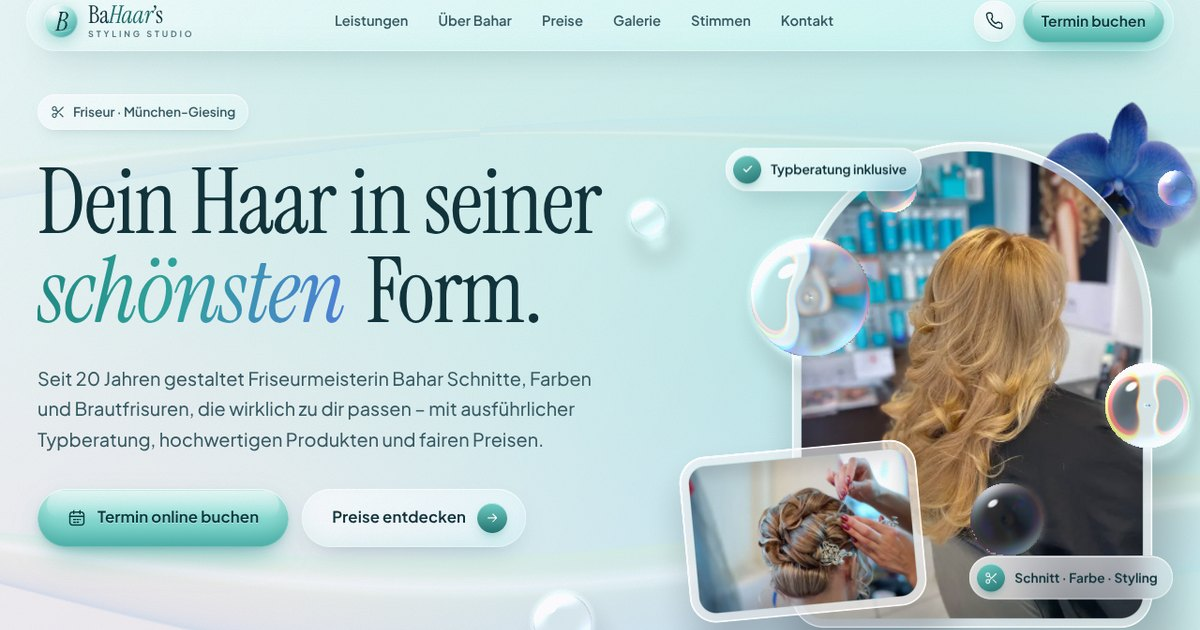
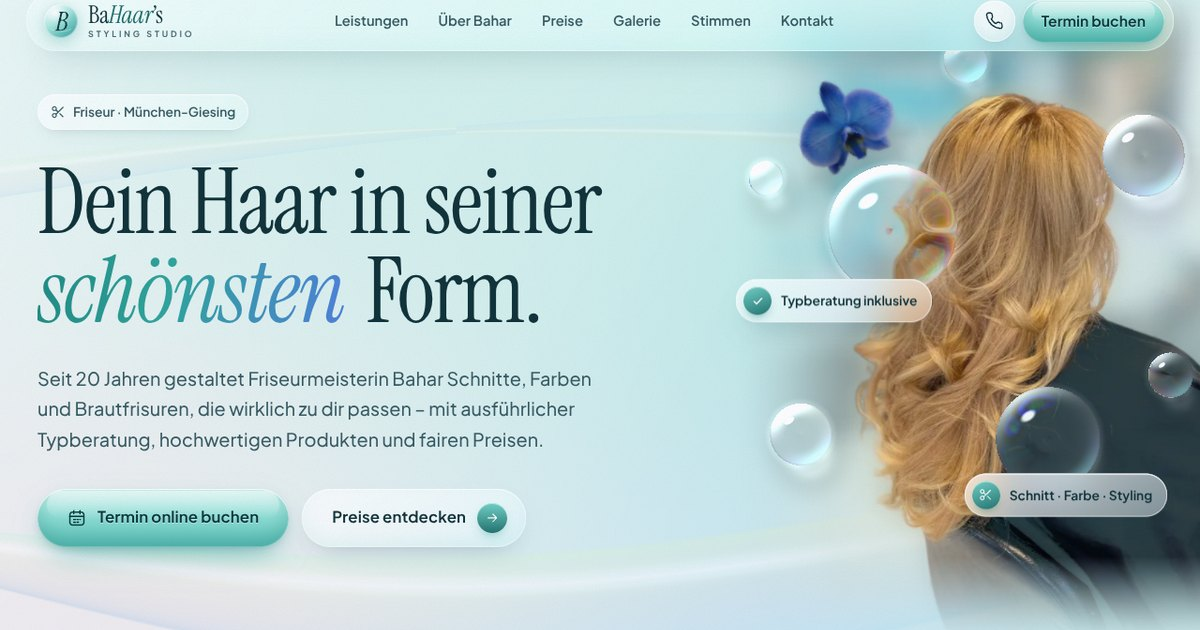
Hero ohne Spiegel-Rahmen: Haar-Ergebnis löst sich frei in den Glasraum auf
- Bogen-Rahmen und Fotokarte aus dem Hero entfernt
- Neues Hero-Motiv: Blond-Waves aus dem Studio, Person scharf freigestellt,
  Salon dahinter weich und türkis getönt, Ränder lösen sich transparent auf;
  Umhang dezent in Petrol getönt
- WebGL-Hero: Schattenstärke, Schwingen und Tiefe pro Ebene steuerbar,
  Glastropfen am Haar ausgerichtet; CSS-Fallback identisch komponiert
- Social-Vorschaubild aktualisiert

Claude-Session: https://claude.ai/code/session_01Y97sLgcXJidQsChtPZAs3B

Changed region(s): [[0.555, 0.0302, 1.0, 1.0], [0.5242, 0.3016, 0.555, 0.3921], [0.4317, 0.9349, 0.4933, 0.9952]]

diff --git a/assets/css/home.css b/assets/css/home.css
@@ -5,12 +5,12 @@
 /* ---------- Hero ---------- */
 .hero {
   /* Bildkomposition (wird vom WebGL-Hero exakt übernommen) */
-  --ah: min(72svh, 690px);
-  --aw: calc(var(--ah) * 0.74);
-  --ar: max(4vw, calc(50% - 610px));
-  --at: calc(50% - var(--ah) / 2 + 30px);
+  --hh: max(100svh, 720px);
+  --ph: var(--hh);
+  --pw: calc(var(--ph) * 0.75);
+  --pr: calc(-1 * clamp(16px, 3vw, 60px));
   position: relative;
-  min-height: max(100svh, 720px);
+  min-height: var(--hh);
   display: grid;
   align-items: center;
   padding: calc(var(--header-h) + 48px) 0 96px;
@@ -45,55 +45,30 @@
   transform: rotate(-8deg);
   opacity: 0.8;
 }
+.hero__portrait {
+  position: absolute;
+  top: 0;
+  right: var(--pr);
+  height: var(--ph);
+  width: var(--pw);
+  max-width: none;
+  object-fit: cover;
+  transform-origin: 50% 0%;
+}
 .hero__bloom {
   position: absolute;
   max-width: none;
-  width: calc(var(--aw) * 0.44);
-  right: calc(var(--ar) - var(--aw) * 0.2);
-  top: calc(var(--at) - var(--aw) * 0.1);
-  rotate: 16deg;
+  width: calc(var(--pw) * 0.2);
+  right: calc(var(--pr) + var(--pw) * 0.7);
+  top: calc(var(--ph) * 0.15);
+  rotate: -18deg;
   transform-origin: 50% 0%;
-  filter: blur(0.4px) drop-shadow(0 24px 30px rgba(20, 80, 90, 0.22));
+  filter: blur(1.2px) drop-shadow(0 24px 30px rgba(20, 80, 90, 0.22));
 }
-.hero__frame {
-  position: absolute;
-  margin: 0;
-  padding: 10px;
-  transform-origin: 50% 0%;
-  background: linear-gradient(150deg, rgba(255, 255, 255, 0.78), rgba(255, 255, 255, 0.45));
-  box-shadow:
-    inset 0 1px 0 #fff,
-    inset 0 0 0 1px rgba(255, 255, 255, 0.7),
-    0 40px 80px -30px rgba(16, 74, 84, 0.45),
-    0 12px 26px -14px rgba(16, 74, 84, 0.25);
-}
-.hero__frame img {
-  width: 100%;
-  height: 100%;
-  object-fit: cover;
-  border-radius: inherit;
-}
-.hero__frame--arch {
-  width: var(--aw);
-  height: var(--ah);
-  right: var(--ar);
-  top: var(--at);
-  border-radius: 50% 50% 34px 34px / 37% 37% 34px 34px;
-}
-.hero__frame--arch img { object-position: 50% 42%; border-radius: 50% 50% 26px 26px / 37% 37% 26px 26px; }
-.hero__frame--card {
-  width: calc(var(--aw) * 0.66);
-  aspect-ratio: 3 / 2.1;
-  right: calc(var(--ar) + var(--aw) * 0.66);
-  top: calc(var(--at) + var(--ah) * 0.63);
-  border-radius: 28px;
-  rotate: -5deg;
-}
-.hero__frame--card img { object-position: 50% 40%; border-radius: 20px; }
 .hero__drop { width: 96px; height: 96px; }
-.hero__drop--1 { right: calc(var(--ar) + var(--aw) * 0.85); top: calc(var(--at) + var(--ah) * 0.22); }
-.hero__drop--2 { right: calc(var(--ar) - 30px); top: calc(var(--at) + var(--ah) * 0.48); width: 64px; height: 64px; }
-.hero__drop--3 { right: calc(var(--ar) + var(--aw) * 0.4); top: calc(var(--at) + var(--ah) * 0.76); width: 44px; height: 44px; }
+.hero__drop--1 { right: calc(var(--pr) + var(--pw) * 0.6); top: calc(var(--ph) * 0.3); }
+.hero__drop--2 { right: calc(var(--pr) + var(--pw) * 0.12); top: calc(var(--ph) * 0.22); width: 64px; height: 64px; }
+.hero__drop--3 { right: calc(var(--pr) + var(--pw) * 0.3); top: calc(var(--ph) * 0.8); width: 44px; height: 44px; }
 
 .hero__tag {
   position: absolute;
@@ -124,12 +99,12 @@
 }
 .hero__tag-icon svg { width: 15px; height: 15px; }
 .hero__tag--a {
-  right: calc(var(--ar) + var(--aw) * 0.64);
-  top: calc(var(--at) + var(--ah) * 0.03);
+  right: calc(var(--pr) + var(--pw) * 0.6);
+  top: calc(var(--ph) * 0.46);
 }
 .hero__tag--b {
-  right: calc(var(--ar) - 22px);
-  top: calc(var(--at) + var(--ah) * 0.86);
+  right: calc(var(--pr) + var(--pw) * 0.08 + 30px);
+  top: calc(var(--ph) * 0.74);
   animation-delay: -3s;
 }
 @keyframes float-tag { to { translate: 0 -10px; } }
@@ -147,7 +122,7 @@
 }
 .hero.is-gl .hero__gl { opacity: 1; }
 .hero.is-gl-done .hero__bloom,
-.hero.is-gl-done .hero__frame,
+.hero.is-gl-done .hero__portrait,
 .hero.is-gl-done .hero__drop,
 .hero.is-gl-done .hero__ribbon { visibility: hidden; }
 
@@ -247,25 +222,19 @@
 
 @media (max-width: 899px) {
   .hero {
-    --ah: clamp(300px, 44svh, 520px);
-    --ar: calc(50% - var(--aw) * 0.64);
-    --at: 84px;
+    --ph: clamp(430px, 64svh, 660px);
+    --pr: calc(50% - var(--pw) * 0.56);
     align-items: end;
     min-height: auto;
-    padding-top: calc(var(--at) + var(--ah) + 40px);
+    padding-top: calc(var(--ph) * 0.93);
     padding-bottom: 64px;
   }
-  .hero__frame--card {
-    width: calc(var(--aw) * 0.72);
-    right: calc(var(--ar) + var(--aw) * 0.56);
-    top: calc(var(--at) + var(--ah) * 0.5);
-  }
-  .hero__bloom { width: calc(var(--aw) * 0.4); right: calc(var(--ar) - var(--aw) * 0.16); top: calc(var(--at) - 34px); }
+  .hero__bloom { width: calc(var(--pw) * 0.22); right: calc(var(--pr) + var(--pw) * 0.72); top: calc(var(--ph) * 0.16); }
   .hero__tag { font-size: 0.78rem; padding: 6px 13px 6px 6px; }
   .hero__tag-icon { width: 26px; height: 26px; }
-  .hero__tag--a { right: auto; left: 4vw; top: calc(var(--at) + var(--ah) * 0.24); }
-  .hero__tag--b { display: none; }
-  .hero__drop--1 { right: auto; left: 3vw; top: calc(var(--at) + var(--ah) * 0.04); width: 60px; height: 60px; }
+  .hero__tag--a { right: auto; left: 4vw; top: calc(var(--ph) * 0.4); }
+  .hero__tag--b { right: 4vw; top: calc(var(--ph) * 0.66); }
+  .hero__drop--1 { right: calc(var(--pr) + var(--pw) * 0.66); top: calc(var(--ph) * 0.26); width: 60px; height: 60px; }
   .hero__drop--3 { display: none; }
   .hero__ribbon { top: 30%; }
   .hero__meta { margin-bottom: 20px; }

diff --git a/assets/js/hero-gl.js b/assets/js/hero-gl.js
@@ -1,7 +1,7 @@
 /* BaHaar's Styling Studio – Liquid-Glass-Hero (WebGL2)
-   Echte Haar-Ergebnisse aus dem Studio in Glasrahmen, eine Orchideenblüte als Akzent,
-   ein türkiser Perlmutt-Raum dahinter. Flüssige Glastropfen brechen das Bild,
-   verschmelzen miteinander und folgen dem Zeiger.
+   Ein echtes Haar-Ergebnis aus dem Studio löst sich ohne Rahmen in einen türkisen
+   Perlmutt-Raum auf, eine Orchideenblüte setzt den Akzent. Flüssige Glastropfen
+   brechen das Bild, verschmelzen miteinander und folgen dem Zeiger.
    Ohne WebGL2 bleibt die identisch komponierte HTML/CSS-Ebene sichtbar. */
 (() => {
   'use strict';
@@ -31,7 +31,7 @@
   uniform vec4 uParam[3];
   uniform vec2 uShift[3];
   uniform vec2 uPad[3];
-  uniform vec4 uShape[3];   // Typ (0 Freisteller, 1 Bogen, 2 Rechteck), Radius oben, Radius unten, Rahmenbreite
+  uniform vec4 uShape[3];   // Typ (0 Freisteller, 1 Bogen, 2 Rechteck); Freisteller: y = Schattenstärke; Rahmen: Radius oben/unten, Rahmenbreite
   uniform vec4 uCover[3];   // Bild-Seitenverhältnis, object-position x/y
   uniform sampler2D uTex0;
   uniform sampler2D uTex1;
@@ -136,7 +136,7 @@
     vec2 uv = spriteUV(i, p);
     vec2 suv = spriteUV(i, p - vec2(14.0, 28.0));
     float sh = texture(tex, suv, min(3.4 + uParam[i].y * 0.5, 4.4)).a * inBox(suv);
-    col *= 1.0 - 0.16 * sh;
+    col *= 1.0 - 0.16 * sh * shp.y;
     vec4 s = texture(tex, uv, uParam[i].y) * inBox(uv);
     return s.rgb + col * (1.0 - s.a);
   }
@@ -248,6 +248,9 @@
     img: el.tagName === 'IMG' ? el : el.querySelector('img'),
     blur: parseFloat(el.dataset.blur) || 0,
     shape: { cutout: 0, arch: 1, rect: 2 }[el.dataset.shape || 'cutout'],
+    shadow: el.dataset.shadow !== undefined ? parseFloat(el.dataset.shadow) : 1,
+    sway: el.dataset.sway !== undefined ? parseFloat(el.dataset.sway) : null,
+    depth: el.dataset.depth !== undefined ? parseFloat(el.dataset.depth) : null,
   }));
   const anchor = sprites.find((s) => 'anchor' in s.el.dataset) || sprites[0];
 
@@ -312,8 +315,9 @@
       const w = el.offsetWidth, h = el.offsetHeight;
       rects.set([el.offsetLeft, el.offsetTop, w, h], i * 4);
       const bias = s.blur > 0 ? Math.log2(1 + s.blur * dpr) : 0;
-      const sway = s.shape === 0 ? 0.05 : 0.004;
+      const sway = s.sway ?? (s.shape === 0 ? 0.05 : 0.004);
       params.set([rot * Math.PI / 180, bias, sway, i * 1.7], i * 4);
+      if (s.shape === 0) shapes.set([0, s.shadow, 0, 0], i * 4);
       if (s.shape > 0) {
         const frame = parseFloat(cs.paddingTop) || 0;
         const rb = parseFloat(cs.borderBottomLeftRadius) || 0;
@@ -327,14 +331,15 @@
   }
 
   /* -------------------- Glastropfen-Choreografie ------------------- */
+  // Positionen relativ zum Anker-Bild (Haar liegt etwa bei x 0.25–0.75, y 0.15–0.85)
   const DROPS = [
-    { fx: 0.02, fy: 0.30, r: 0.17, amp: 14, sp: 0.21, ph: 0.0 },
-    { fx: 0.96, fy: 0.55, r: 0.12, amp: 12, sp: 0.17, ph: 1.3 },
-    { fx: 0.58, fy: 0.80, r: 0.10, amp: 14, sp: 0.13, ph: 2.1 },
-    { fx: 0.30, fy: 0.10, r: 0.07, amp: 10, sp: 0.25, ph: 3.4 },
-    { fx: -0.62, fy: 0.98, r: 0.08, amp: 10, sp: 0.30, ph: 4.2 },
-    { fx: 1.06, fy: 0.08, r: 0.05, amp: 8, sp: 0.33, ph: 5.0 },
-    { fx: -0.42, fy: 0.16, r: 0.05, amp: 8, sp: 0.28, ph: 0.7 },
+    { fx: 0.30, fy: 0.36, r: 0.13, amp: 14, sp: 0.21, ph: 0.0 },
+    { fx: 0.80, fy: 0.27, r: 0.08, amp: 12, sp: 0.17, ph: 1.3 },
+    { fx: 0.62, fy: 0.70, r: 0.10, amp: 14, sp: 0.13, ph: 2.1 },
+    { fx: 0.16, fy: 0.68, r: 0.06, amp: 10, sp: 0.25, ph: 3.4 },
+    { fx: 0.88, fy: 0.58, r: 0.045, amp: 9, sp: 0.30, ph: 4.2 },
+    { fx: 0.46, fy: 0.11, r: 0.045, amp: 9, sp: 0.33, ph: 5.0 },
+    { fx: 0.06, fy: 0.30, r: 0.035, amp: 8, sp: 0.28, ph: 0.7 },
   ];
   const drops = new Float32Array(32);
   const pointer = { x: 0, y: 0, tx: 0, ty: 0, r: 0, tr: 0, vx: 0, vy: 0, inside: false };
@@ -360,7 +365,7 @@
     pointer.ty = e.clientY - r.top;
     if (!pointer.inside && active) { pointer.x = pointer.tx; pointer.y = pointer.ty; }
     pointer.inside = active;
-    pointer.tr = active ? Math.max(46, anchorBox.w * (isTouch ? 0.2 : 0.15)) : 0;
+    pointer.tr = active ? Math.max(46, anchorBox.w * (isTouch ? 0.16 : 0.12)) : 0;
     look.tx = (pointer.tx / W - 0.5);
     look.ty = (pointer.ty / H - 0.5);
   }
@@ -378,7 +383,7 @@
   function draw(t) {
     updateDrops(t);
     sprites.forEach((s, i) => {
-      const depth = s.shape === 0 ? 26 : 8 + i * 6;
+      const depth = s.depth ?? (s.shape === 0 ? 26 : 8 + i * 6);
       shifts.set([-look.x * depth, -look.y * depth * 0.6], i * 2);
     });
     gl.uniform2f(U.uRes, W, H);

diff --git a/index.html b/index.html
@@ -21,7 +21,7 @@
   <link rel="preload" href="assets/fonts/instrument-serif-latin-400-normal.woff2" as="font" type="font/woff2" crossorigin>
   <link rel="preload" href="assets/fonts/instrument-serif-latin-400-italic.woff2" as="font" type="font/woff2" crossorigin>
   <link rel="preload" href="assets/fonts/plus-jakarta-sans-latin-wght-normal.woff2" as="font" type="font/woff2" crossorigin>
-  <link rel="preload" as="image" type="image/webp" href="assets/img/gallery/look-09-l.webp" imagesrcset="assets/img/gallery/look-09-s.webp 560w, assets/img/gallery/look-09-l.webp 1200w" imagesizes="(max-width: 899px) 72vw, 520px">
+  <link rel="preload" as="image" type="image/webp" href="assets/img/hero/portrait-1200.webp" imagesrcset="assets/img/hero/portrait-720.webp 720w, assets/img/hero/portrait-1200.webp 1200w" imagesizes="(max-width: 899px) 100vw, 52vw">
   <link rel="stylesheet" href="assets/css/base.css">
   <link rel="stylesheet" href="assets/css/home.css">
   <script>document.documentElement.classList.replace('no-js', 'js');</script>
@@ -115,18 +115,12 @@
       <div class="hero__stage" aria-hidden="true" data-hero-stage>
         <div class="hero__aurora"></div>
         <div class="hero__ribbon"></div>
-        <img class="hero__bloom" data-sprite="blossom" data-shape="cutout" data-blur="0.4"
+        <img class="hero__portrait" data-sprite="portrait" data-shape="cutout" data-shadow="0" data-sway="0" data-depth="10" data-anchor
+             src="assets/img/hero/portrait-1200.webp"
+             srcset="assets/img/hero/portrait-720.webp 720w, assets/img/hero/portrait-1200.webp 1200w"
+             sizes="(max-width: 899px) 100vw, 52vw" width="1200" height="1600" alt="" fetchpriority="high">
+        <img class="hero__bloom" data-sprite="blossom" data-shape="cutout" data-blur="1.2" data-depth="30"
              src="assets/img/orchid/blossom-480.webp" width="480" height="437" alt="">
-        <figure class="hero__frame hero__frame--arch" data-sprite="photo" data-shape="arch" data-anchor>
-          <img src="assets/img/gallery/look-09-l.webp"
-               srcset="assets/img/gallery/look-09-s.webp 560w, assets/img/gallery/look-09-l.webp 1200w"
-               sizes="(max-width: 899px) 72vw, 520px" width="1200" height="1600" alt="" fetchpriority="high">
-        </figure>
-        <figure class="hero__frame hero__frame--card" data-sprite="photo" data-shape="rect">
-          <img src="assets/img/gallery/look-03-l.webp"
-               srcset="assets/img/gallery/look-03-s.webp 560w, assets/img/gallery/look-03-l.webp 1200w"
-               sizes="(max-width: 899px) 56vw, 340px" width="1200" height="797" alt="">
-        </figure>
         <span class="orb orb--clear hero__drop hero__drop--1"></span>
         <span class="orb orb--clear hero__drop hero__drop--2"></span>
         <span class="orb orb--clear hero__drop hero__drop--3"></span>

diff --git a/README.md b/README.md
@@ -7,7 +7,7 @@ Designsprache: **Liquid Glass** mit weichem Türkis als Leitfarbe, echte Haar-Er
 
 | Datei | Inhalt |
 | --- | --- |
-| `index.html` | Startseite: Liquid-Glass-Hero (WebGL), Leistungen, Über Bahar, Preis-Ausschnitt, Brautstyling, Galerie mit Lightbox, fließende Bewertungen, Kontakt mit Live-Öffnungsstatus |
+| `index.html` | Startseite: rahmenloser Liquid-Glass-Hero (WebGL) mit einem echten Haar-Ergebnis, das sich in den türkisen Raum auflöst, Leistungen, Über Bahar, Preis-Ausschnitt, Brautstyling, Galerie mit Lightbox, fließende Bewertungen, Kontakt mit Live-Öffnungsstatus |
 | `preise.html` | Komplette Preisliste (32 Leistungen) mit Suche (umlaut- & tippfehlertolerant), Kategorie-Navigation, Haarlängen-Schalter und Termin-Planer |
 | `impressum.html`, `datenschutz.html` | Rechtliches (bitte vor Livegang prüfen lassen) |
 | `404.html` | Fehlerseite |
@@ -25,7 +25,7 @@ Statische Website ohne Build-Schritt – einfach alle Dateien auf den Webspace l
 
 - Reines HTML/CSS/JavaScript, keine Abhängigkeiten, keine Cookies, kein Tracking.
 - Schriften (Instrument Serif, Plus Jakarta Sans) lokal eingebunden – DSGVO-freundlich, keine Google-Fonts-Verbindung.
-- Hero: WebGL2-Shader mit flüssigen Glastropfen (Brechung, chromatische Aberration, Verschmelzen per Smooth-Min), folgt Maus/Touch, passt die Auflösung bei schwachen Geräten automatisch an und pausiert außerhalb des Sichtbereichs. Ohne WebGL2 erscheint eine identisch komponierte CSS-Version.
+- Hero: Das Studiofoto ist freigestellt (Person scharf, Salon dahinter weich und türkis getönt, Ränder transparent) – ohne Rahmen. WebGL2-Shader mit flüssigen Glastropfen (Brechung, chromatische Aberration, Verschmelzen per Smooth-Min), folgt Maus/Touch, passt die Auflösung bei schwachen Geräten automatisch an und pausiert außerhalb des Sichtbereichs. Ohne WebGL2 erscheint eine identisch komponierte CSS-Version.
 - Online-Buchung über Salonized im Glas-Dialog (wird erst beim Klick geladen), OpenStreetMap-Karte erst nach Klick.
 - `prefers-reduced-motion` wird respektiert; Tastatur-Bedienung, Fokus-Stile und ARIA-Rollen für Tabs, Radiogruppen und Dialoge.
 - `.htaccess` leitet die alten Adressen (`/preise`, `/galerie`, `/impressum`, `/datenschutzerklarung`) weiter und aktiviert Kompression & Caching.
